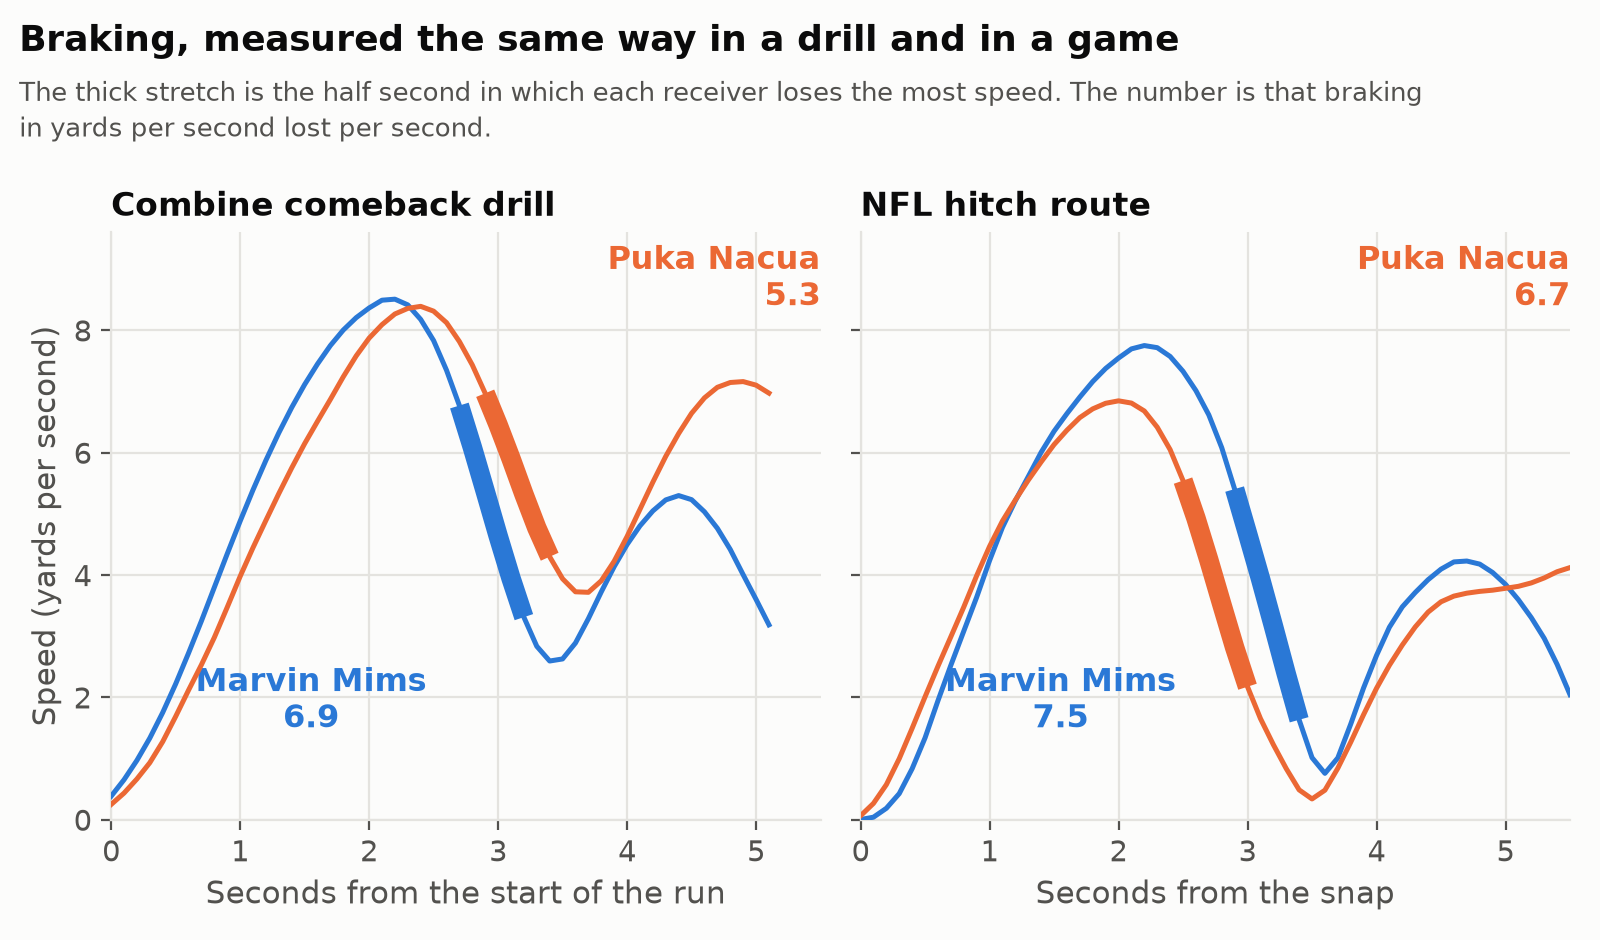
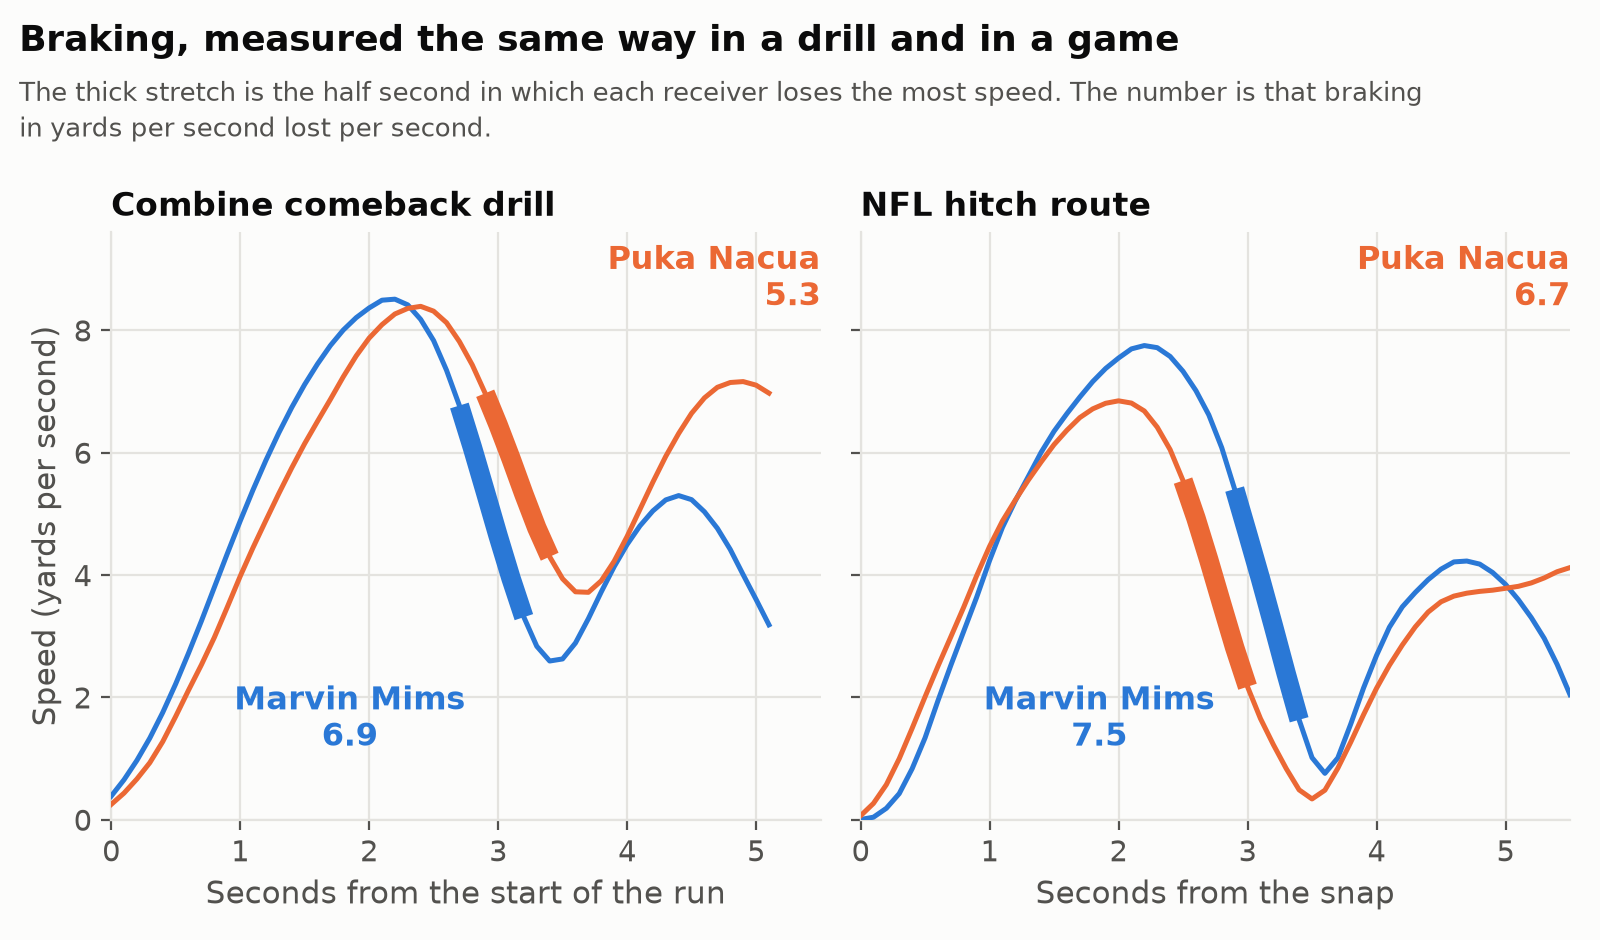
Move a trace label clear of the lines

Changed region(s): [[0.5938, 0.7096, 0.75, 0.8021], [0.125, 0.7096, 0.2812, 0.8021]]

diff --git a/src/bdb27/traces.py b/src/bdb27/traces.py
@@ -96,7 +96,7 @@ def figure(d: dict) -> plt.Figure:
             ax.plot(c["t"][keep], c["s"][keep], color=color, lw=1.8, zorder=3)
             ax.plot(c["t"][i:j + 1], c["s"][i:j + 1], color=color, lw=7, solid_capstyle="butt", zorder=4)
             # Hard braker labelled under the speed hump, soft braker in the empty top corner.
-            x, y, ha = (1.55, 2.6, "center") if kind == "hard" else (SHOWN, 9.5, "right")
+            x, y, ha = (1.85, 2.3, "center") if kind == "hard" else (SHOWN, 9.5, "right")
             ax.text(x, y, f"{d[kind]['name']}\n{c['value']:.1f}", color=color, fontsize=11.5, fontweight="bold",
                     va="top", ha=ha, linespacing=1.15)
         ax.set_title(title, fontsize=12)
